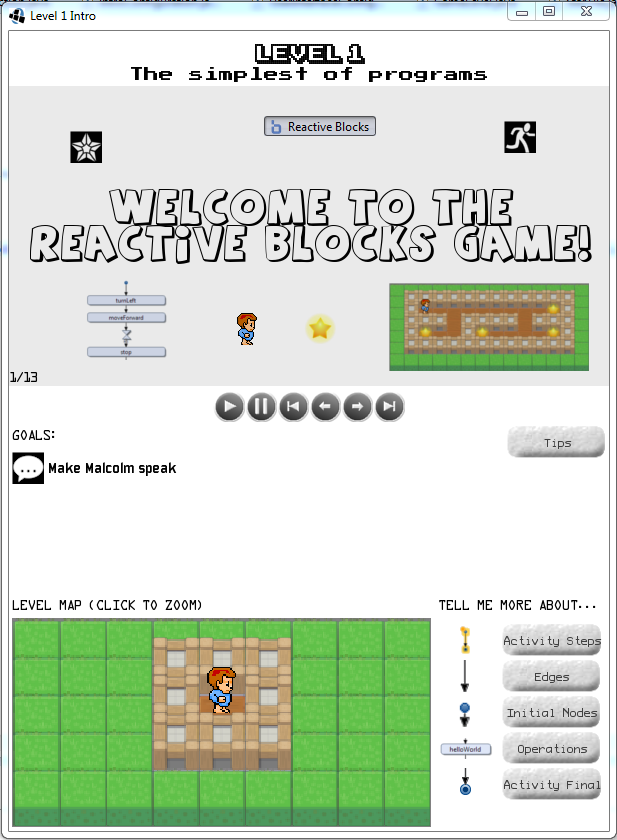
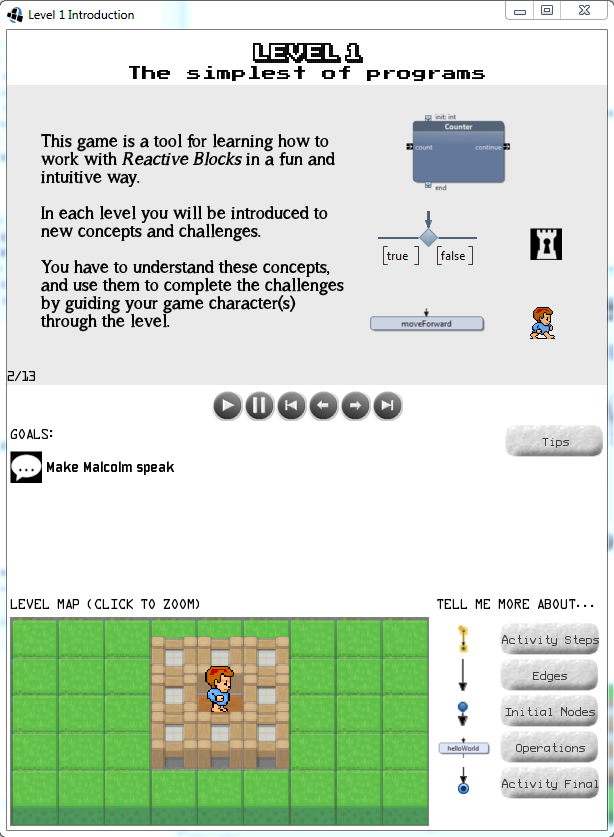
initial work on game

diff --git a/tutorial_game.tex b/tutorial_game.tex
@@ -1,15 +1,96 @@
 \chapter{A Tutorial Game}
 \label{ch:tutorial_game}
-
-
+As the second part of my own work, I designed and implemented a prototype for an educational game for \gls{uml} Activities in the context of Reactive Blocks, nicknamed simply \emph{The Reactive Blocks Game}. Based on the tutorial described in Ch.~\ref{ch:reactive_blocks_tutorial}, this game teaches the same concepts in similar ways, but in a different environment. This chapter covers the motivation for creating the game, as well as a description of the design and implementation of the prototype. Additionally, a user test was conducted in an effort to uncover usability issues with the game prototype.
 
 \section{Motivation}
 \label{sec:game_motivation}
 
+\subsection{Goals}
+\label{sec:game_goals}
+Like with the tutorial in Ch.~\ref{ch:reactive_blocks_tutorial}, I initially set some goals for the design and implementation of the game. These goals are primarily based on experiences from the tutorial implementation and test, as well as the good practices from Sect.~\ref{sec:good_practices_games}.
 
-\section{Concept}
+\paragraph{Immersion} The primary goal for the game is to provide an environment where players can immerse themselves in the learning experience. This involves giving the players a sense of identity within the game, and providing them with challenges that are easily visualized and comprehended (but not necessarily solved) within the given environment.
+
+\paragraph{Exploration and Guidance} \gls{uml} Activities can be used to model very complex systems, and learning how to do this is not a trivial process. The game is thus likely to benefit from providing some guidance to players, as opposed to complete freedom to explore~\cite{andersen:tutorials_impact}. Some freedom is still necessary, to facilitate creativity and deeper learning~\cite{bonawitz:double_edged_pedagogy}. The goal is then that the game should be primarily focused around a tutorial-like guided path for learning about concepts within \gls{uml} Activities, but with the possibility for players to find their own solutions to problems. Players should also be encouraged to explore other perspectives, and maybe find different or even \emph{better} solutions to the same problems.
+
+\paragraph{Level of Difficulty} The target audience for the game is people who want or need to learn about software modeling with \gls{uml}, which is likely to be a fairly small group of people (in the big picture). However, these people often come with different backgrounds: some may be experienced programmers looking for a way to visualize their programs, while others are people without any previous experience dealing with software structures. The game should be easy enough for the less knowledgeable users to get started without frustration, but eventually provide challenges that feel relevant also to the more experienced. Players should also have the option to skip challenges they feel are less relevant or that involve concepts they have already mastered, in order to avoid the game experience becoming tedious.
+
+\paragraph{Lessons from the Tutorial} The design and implementation of the tutorial in Ch.~\ref{ch:reactive_blocks_tutorial} fulfilled some, but not all of the goals that were set. The approach seemed to provide a decent learning experience, but with some potential for improvement. A goal for the game is to build on the parts of the tutorial that were successful, such as the teaching order, and additionally include some of the parts that were not implemented, such as having everything in one place. Since the game still will be based on Reactive Blocks, many of the same challenges will be present, but with a game, there should be more options for providing resources within the same platform, such as help-on-demand.
+
+\section{Concept Development}
 \label{sec:game_concept}
+When developing the concept of the game, a few points were considered. First of all, it should involve some sort of main character, giving the player a sense of identity. Secondly, the game concept must accommodate a range of different types of challenge that are suited for learning about concepts like concurrency, modularization and reuse. Finally, it must be relatively easy to prototype, as the available time to implement the game was fairly limited.
 
+\subsection{The Final Concept}
+\label{sec:game_final_concept}
+With the above design points in mind, I settled on a two-dimensional maze-navigating game, where the player controls a character or set of characters through operations and logic in Reactive Blocks. The main character, Malcolm, must perform one or more goals to complete the level, such as gathering stars. In order to get to these stars however, Malcolm must perform some other tasks, such as gathering keys, or invoke the assistance of other characters in the game. Figure~\ref{fig:level3map} shows level 3 of the game, where Malcolm must navigate around the maze and gather all four stars.
+
+\begin{figure}[htp]
+	\centering
+	\includegraphics[scale=0.60]{level3map}
+	\caption[Level 3 of the Reactive Blocks game]{Level 3 of the Reactive Blocks game. Malcolm, the character on the left, must move around the maze and collect all four stars in order to complete the level.}
+	\label{fig:level3map}
+\end{figure}
+
+\noindent
+This concept was chosen for the following reasons:
+\begin{itemize}
+	\item Two-dimensional games are quick and easy to implement, both graphically and programming-wise, given an appropriate framework.
+	\item Since the purpose of the game is to teach \gls{uml} Activities, it makes most sense to provide a game environment where the player must program their characters' path in advance, and then see if they modeled the desired behavior correctly. A two-dimensional maze-navigating game makes it easy for players to get a clear overview of what they are supposed to do.
+	\item Despite being relatively simple to implement, a two-dimensional maze-game offers a lot of possibilities in the form of obstacles and challenges the player must overcome in order to complete each level.
+\end{itemize}
+
+\noindent
+Even with such a flexible concept in place, it was no trivial task to create levels and challenges that let the user learn about \gls{uml} Activity concepts in an intuitive and reasonable way. In addition, I had to consider how each concept should be introduced within the level, so that the user would know what to expect.
+
+\subsection{The Tutorial Part}
+\label{sec:game_tutorial}
+One of the most important goals for the game was to provide an environment where the player could find all the information needed to complete a level, instead of having to switch between contexts or search through external sources. Players would be creating the logic for each level in Reactive Blocks, generate code from these models, and run it to see if it was correct. Thus, additional information, such as concept introductions, level maps, and help-on-demand, had to be presented inside Reactive Blocks. Unfortunately, because I was unable to alter the Reactive Blocks environment, I could still not provide a tutorial mode, just as with the tutorial in Ch.~\ref{ch:reactive_blocks_tutorial}.
+
+\noindent
+Instead of a tutorial mode in Reactive Blocks, a different solution presented itself. I could create a separate program with a window that would contain the most basic information needed for each level, with internal links to additional resources. This would of course not be completely within the context of Reactive Blocks, but hopefully a decent substitute for the lack of a real tutorial mode.
+
+\noindent
+Designing the tutorial window presented some challenges of its own. The window needed to be small enough for players to be able to keep it on their screen together with the Eclipse/Reactive Blocks window, preferably also for smaller screens like on laptops. At the same time, I needed to include all the info a player would realistically need to complete each level. Obviously I would not be able to fit all the information in one small window at the same time, so I had to decide which elements to display by default, and what should only be displayed upon the player's request.
+
+\noindent
+After some consideration, I settled on a 600x800 pixels window, which should fit pretty good with the Reactive Blocks modeling canvas on screen resolutions down to 1280x800. When the resolution becomes smaller than this, there is little room for anything but the Eclipse window anyway. Given more time for development, it would likely be better to have a variable size window depending on the available screen resolution, but for now, this size is fixed.
+
+\noindent
+Figure~\ref{fig:level1_intro} shows the introduction window for level 1. The layout is the same for all levels, but the content varies. At the top is simply the title of the level, with a ``tagline'' giving a short description of what the current level is about. Below the title is a slide show, which the player may go through to get a quick introduction of the concepts taught by, and the goals of, the current level. These introductions are generally kept short, except for in level 1, where the whole game must be introduced in additional to all the most basic concepts. The player controls the slide show with the arrow and play/pause buttons.
+
+\begin{figure}[htp]
+	\centering
+	\includegraphics[scale=0.50]{level1_intro}
+	\caption[Introduction window for level 1]{The introduction window for level 1, with the introduction slide show at the top, followed by the goals for this level, a button for tips, the level map, and some buttons for retrieving additional information about the concepts presented.}
+	\label{fig:level1_intro}
+\end{figure}
+
+\noindent
+Below the slide show, we see a list of the goals for the current level. The goals, together with the level map at the bottom, is the most important information of the level. The level map and the goals are always visible, so that the user has easy access to these when working on the solution for the current level. The level map varies in size, but is always scaled to fit the small frame in the bottom left corner. However, since the player sometimes has to check details of the map, it is possible to make it bigger by clicking on it.
+
+\noindent
+Finally, the buttons on the right side of the window represent the \emph{help-on-demand} information that is not visible by default. The \emph{Tips} button provides some tips that are good to know either for solving the current level, or for learning about modeling in general. The hope is that if players get stuck or are unsure about how to proceed, they will see and click this button in an attempt to find help. The \emph{Tell me more about...} buttons provide more detailed information about each concept presented in the current level, available for players who need more information in order to understand the concepts sufficiently, or simply want to learn more.
+
+\noindent
+
+
+
+
+
+\subsection{Game Levels}
+\label{sec:game_levels}
+For the first version of the prototype, only 5 levels were designed and implemented. This was because I wanted to test the prototype with a few users as soon as possible, in order to uncover any serious flaws with the \gls{ui} or the way the introductions were presented as early as possible. The levels for the first version of the prototype are briefly described below.
+
+\subsubsection{Level 1}
+
+\subsubsection{Level 2}
+
+\subsubsection{Level 3}
+
+\subsubsection{Level 4}
+
+\subsubsection{Level 5} 
 
 \section{Implementation}
 \label{sec:game_implementation}
@@ -20,7 +101,7 @@
 
 
 \subsection{Subject 1}
-\label{game_testing_subject1}
+\label{sec:game_testing_subject1}
 
 \subsubsection{Profile}
 
@@ -30,7 +111,7 @@
 
 
 \subsection{Subject 2}
-\label{game_testing_subject2}
+\label{sec:game_testing_subject2}
 
 \subsubsection{Profile}
 
@@ -40,7 +121,7 @@
 
 
 \subsection{Subject 3}
-\label{game_testing_subject3}
+\label{sec:game_testing_subject3}
 
 
 \subsubsection{Profile}
@@ -49,6 +130,24 @@
 
 \subsubsection{Feedback}
 
+\subsection{A Side-note on an Informal Experiment}
+\label{sec:game_testing_sidenote}
+In addition to the formal usability tests conducted with the three volunteer subjects, I thought it might be interesting to test the game experience on someone completely outside the target audience, just to see what happened. I decided my girlfriend, an elementary school English teacher with no experience even remotely related to programming (she does not like working with computers), would be a suitable subject.
+
+\noindent
+The experiment was conducted in an informal way, where she would simply do her best to absorb the information provided in the introductions, and then try to solve the exercises. I helped with some of the parts that were more technical and less relevant, such as preparing Eclipse and Reactive Blocks, and building and running the blocks. If she got completely stuck, I would also offer some hints, primarily about where she could find more information.
+
+\noindent
+To my slight surprise, my girlfriend actually handled the problems presented very well. She read the introductions carefully, and easily understood the concepts of operations, tokens and control flow. She handled timers without trouble, struggled a little with decisions (I had to explain what \emph{Strings}, \emph{booleans}, and \emph{integers} were), and used \emph{Merge} nodes perfectly to simplify the logic in level 5. She did spend notably more time on each level than the three subjects in the formal tests (she even got a little more help with \gls{ui} issues), but this could simply be because she was not used to building this particular kind of mental models, added to the fact that she read the instructions extra carefully.
+
+\noindent
+Despite her aversion for working with computers and lack of interest for software development, she found the game fun to play because it let her get the sense of mastering a skill she thought was far beyond her abilities. When starting both level 4 and 5, she sighed and exclaimed that \emph{``it looks really difficult''}, but attacked the problems with determination, reading and re-reading the introductions until things started to make sense.
+
+\noindent
+I should also include that while my girlfriend was able to understand the concepts presented sufficiently to solve problems within the context of the game, she admitted to having no idea about how they could be used for other purposes.
+
+\noindent
+While I found this experiment to be quite interesting, its informal nature prevents me from drawing any real conclusions. It is likely that a large part of my girlfriend's motivation was to support my thesis work, as opposed to wanting to learn about \gls{uml} Activities. Also, despite not having any interest in working with computer-related topics, she could simply be the type of person who has a knack for understanding these things (without even knowing it). All in all, much is left to speculation, but the experiment provides an interesting anecdote for the potential of educational games.
 
 \section{Evaluation of the Tutorial Game}
 

diff --git a/tutorial_exercises.tex b/tutorial_exercises.tex
@@ -33,7 +33,15 @@ If one is to learn about \gls{uml} Activities through Reactive Blocks, an additi
 \label{sec:tutorial_goals}
 This section outlines the goals I set before creating the tutorial.
 
-\paragraph{Follow the Principles of Good Tutorials} In Sect.~\ref{sec:good_practices_tutorials}, I summarized various practices for making good tutorials. I would like to follow these as much as possible, while at the same time acknowledging that I likely will not be able to cover all. The ones I consider most relevant for this tutorial are:
+\paragraph{Focus on UML Activities} If the user wants to learn how to work with Reactive Blocks, learning about \gls{uml} Activities is a start, but far from sufficient. The scope of this project is however learning modeling languages, so the tutorial should focus on the modeling aspect, and deal with topics specific to Reactive Blocks only where absolutely needed. This includes dealing with Java code; all operations required in a model should be predefined.
+
+\paragraph{Avoid Irrelevant Complexities} Reactive Blocks is a full-fledged modeling and code generation tool, with capabilities that go way beyond simply modeling \gls{uml} activities. This gives the tutorial some advantages, such as actually creating runnable code from the models created, which provides the user with relevant feedback. However, it also introduces complexities that are not as relevant when learning about \gls{uml} Activities. Ideally, Reactive Blocks should have a separate tutorial mode that handles these additional complexities, and lets the user focus on the modeling.
+
+\paragraph{Difficulty and Challenges} The exercises presented to the user should be easy enough to allow most users to complete them without much difficulty and frustration, while still communicating the lesson properly. In addition, there should be challenges, perhaps as supplementary exercises, that force the users to really think about how an element can be used, and lets them take on a different perspective for solving the problem.
+
+\paragraph{Everything in One Place} With online tutorials, users often have to change between the application window, the tutorial (often in a web browser), and any other necessary resources. This increases the short-term memory workload, since users have to remember a lot of information between the windows. One of the golden rules of \gls{ui} design is to reduce the short-term memory load~\cite{shneiderman:user_interface}, so for the tutorial, I would like to provide all the information and parts of the tutorial within Reactive Blocks, letting users find the resources they need while still being able to see the current problem. This should also help create some sense of immersion, though a standard tutorial will most likely not be nearly as immersive as a video game in any case.
+
+\paragraph{Follow the Principles of Good Tutorials} Section~\ref{sec:good_practices_tutorials} summarizes various practices for making good tutorials. I would like to follow these as much as possible, while at the same time acknowledging that I likely will not be able to cover all. The ones I consider most relevant for this tutorial are:
 
 \begin{itemize}
 	\item{\textbf{Interactivity and Active Learning:}} The tutorial should first and foremost be interactive. For each new piece of information introduced, users should be presented with exercises they have to solve.
@@ -45,14 +53,6 @@ This section outlines the goals I set before creating the tutorial.
 	\item{\textbf{Multiple Perspectives:}} \gls{uml} Activities and Reactive Blocks can be used to model many different kinds of systems, and it is important to understand their capabilities. The tutorial should provide exercises that use the various elements in different contexts and with different purposes, when applicable.
 	\item{\textbf{Freedom:}} Because the tutorial is made with Reactive Blocks, it is likely a good idea to limit the users' freedom when working with the tutorial. It is easy to get confused by the many capabilities of Eclipse and Reactive Blocks, and clicking the wrong thing can easily lead to unexpected errors. Having a separate tutorial mode is one possible way of doing this. At the same time, we do not want to restrict the users to one specific way of thinking when solving the tutorial exercises. Ideally, it should be possible to solve these exercises in more than one way, and the users should be made aware of this.
 \end{itemize}
-
-\paragraph{Focus on UML Activities} If the user wants to learn how to work with Reactive Blocks, learning about \gls{uml} Activities is a start, but far from sufficient. The scope of this project is however learning modeling languages, so the tutorial should focus on the modeling aspect, and deal with topics specific to Reactive Blocks only where absolutely needed. This includes dealing with Java code; all operations required in a model should be predefined.
-
-\paragraph{Avoid Irrelevant Complexities} Reactive Blocks is a full-fledged modeling and code generation tool, with capabilities that go way beyond simply modeling \gls{uml} activities. This gives the tutorial some advantages, such as actually creating runnable code from the models created, which provides the user with relevant feedback. However, it also introduces complexities that are not as relevant when learning about \gls{uml} Activities. Ideally, Reactive Blocks should have a separate tutorial mode that handles these additional complexities, and lets the user focus on the modeling.
-
-\paragraph{Difficulty and Challenges} The exercises presented to the user should be easy enough to allow most users to complete them without much difficulty and frustration, while still communicating the lesson properly. In addition, there should be challenges, perhaps as supplementary exercises, that force the users to really think about how an element can be used, and lets them take on a different perspective for solving the problem.
-
-\paragraph{Everything in One Place} With online tutorials, users often have to change between the application window, the tutorial (often in a web browser), and any other necessary resources. This increases the short-term memory workload, since users have to remember a lot of information between the windows. One of the golden rules of \gls{ui} design is to reduce the short-term memory load~\cite{shneiderman:user_interface}, so for the tutorial, I would like to provide all the information and parts of the tutorial within Reactive Blocks, letting users find the resources they need while still being able to see the current problem. This should also help create some sense of immersion, though a standard tutorial will most likely not be nearly as immersive as a video game in any case.
 
 \noindent
 These goals provide a basis for the design of the tutorial, and will hopefully lead to a tutorial that introduces \gls{uml} Activities to novices in a better way than the existing tutorials described in Sect.~\ref{sec:existing_tutorials}.
@@ -67,7 +67,7 @@ The tutorial design consists of three parts:
 	\item An exercise for each step in the tutorial, implemented in Reactive Blocks. Some steps additionally have a challenge exercise.
 \end{itemize}
 
-\subsection{Reactive Blocks Tutorial Mode}
+\subsection{Proposal for a Reactive Blocks Tutorial Mode}
 \label{sec:reactive_blocks_tutorial_mode}
 The first part of the tutorial design is a proposal for a \emph{tutorial mode} in Reactive Blocks. Figure~\ref{fig:tutorial_mode} displays a visual mock-up of the proposed \gls{ui} design for the tutorial mode. In the middle, we see the familiar Reactive Blocks modeling canvas (10), with some elements in place for demonstrative purposes. Surrounding the modeling canvas, we see various new elements that will be explained below.
 

diff --git a/related_work.tex b/related_work.tex
@@ -96,7 +96,7 @@ Through the results of two user studies, the authors show that the \emph{ToolCli
 
 \subsection{A Summary of Good Practices for Tutorials}
 \label{sec:good_practices_tutorials}
-The previous sections in this chapter, as well as Sect.~\ref{sec:tutorials}, describe various research on the creation of good tutorials and introductions for computer-based procedures. Different aspects of the learning process are considered, and it is apparent that there are many ways to succeed. In this section, I attempt to summarize the various aspects that should be considered when making a tutorial for a computer-based procedure.
+The previous sections in this chapter, as well as Sect.~\ref{sec:tutorials}, describe various research efforts on the creation of good tutorials and introductions for computer-based procedures. Different aspects of the learning process are considered, and it is apparent that there are many ways to succeed. In this section, I attempt to summarize the various aspects that should be considered when making a tutorial for a computer-based procedure.
 
 \paragraph{Interactivity and Active Learning} The most important aspect of a good tutorial is likely that it should be interactive. Active learning is one of Chickering and Gamson's \emph{seven principles of learning}~\cite{chickering:seven_principles}, in addition to being recommended for tutorial design by various other sources~\cite{bowerman:tutorial_design, aberson:tutorial_evaluation}. A common way of making a tutorial interactive is to provide exercises the user must complete.
 
